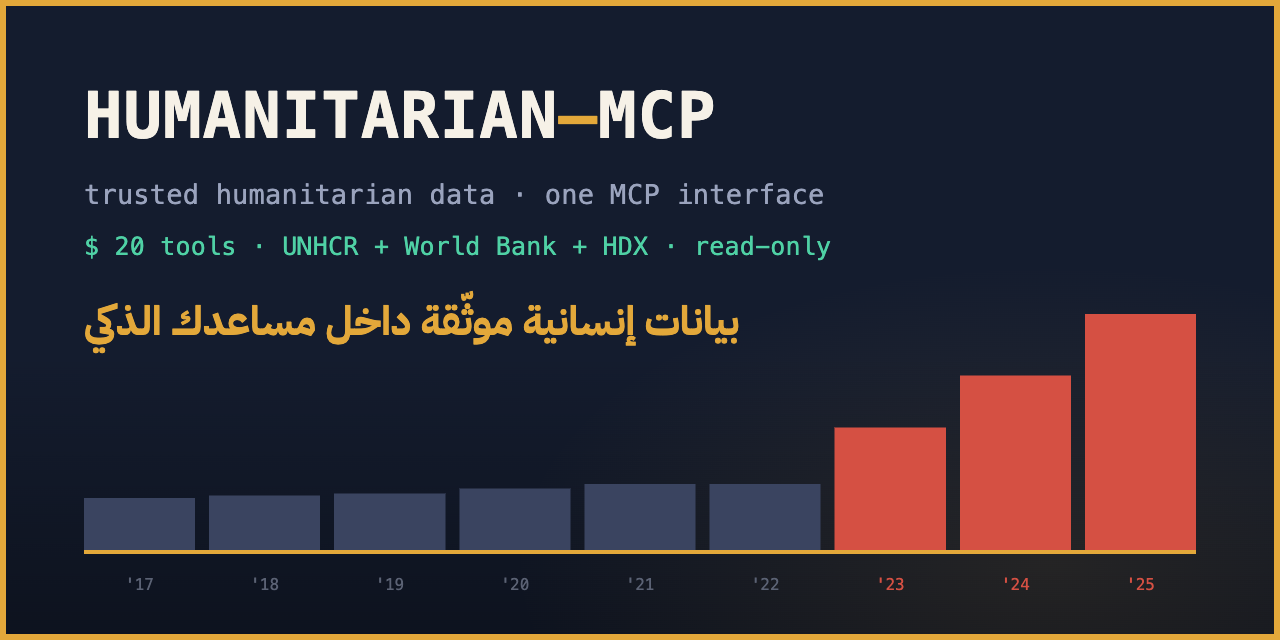
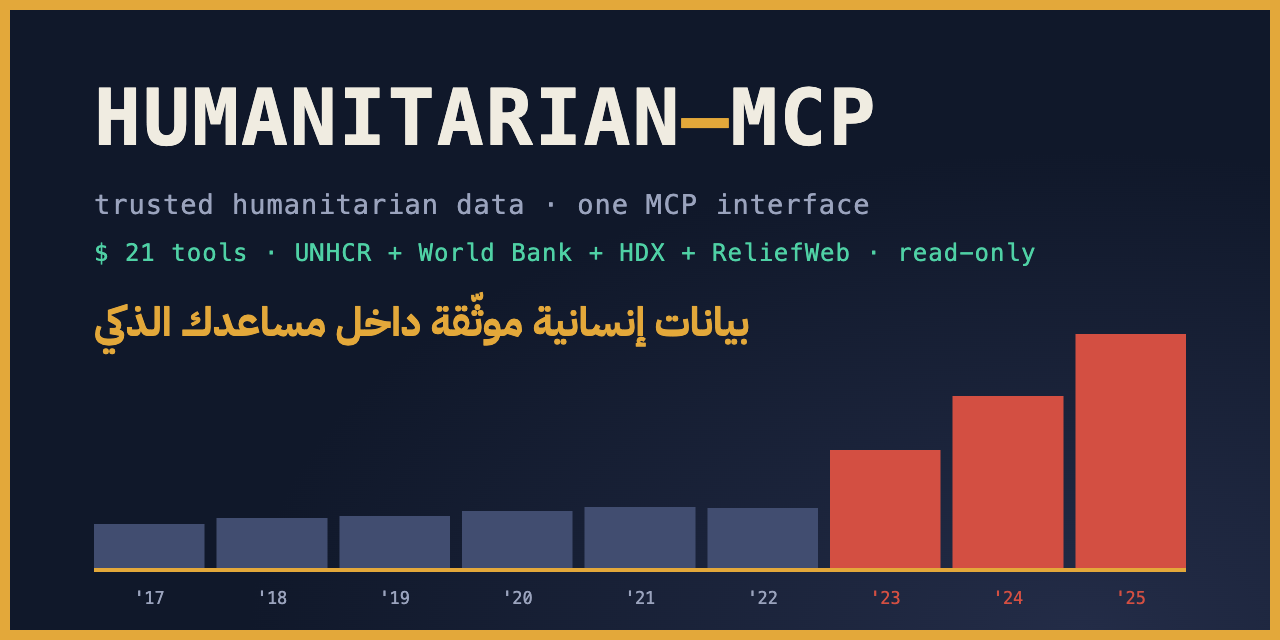
docs: animated README — live terminal demo, data-flow diagram, stats strip; sync content to v0.6.0
- New animated SVG assets (brand palette, SMIL — render natively on GitHub):
  demo-terminal.svg (typed queries, per-capita bars, Arabic resolution,
  cited export), data-flow.svg (four sources -> normalize -> AI clients),
  stats-strip.svg (21 tools · 4 sources · 8 prompts · 153 tests · 75 yrs)
- Social preview regenerated: 21 tools, four sources incl. ReliefWeb
- Content sync with v0.6.0: 20->21 tools, 7->8 prompts, 125->153 tests,
  version strings 0.5.1->0.6.0 (install + citation), ReliefWeb added to
  the intro dataset list, v0.6.0 entry added to the roadmap
- Mermaid component diagram folded into a collapsible details block

diff --git a/README.md b/README.md
@@ -12,18 +12,19 @@
 [![MCP](https://img.shields.io/badge/protocol-Model%20Context%20Protocol-7c3aed)](https://modelcontextprotocol.io)
 [![License: MIT](https://img.shields.io/badge/License-MIT-16a34a.svg)](LICENSE)
 
-```text
-"How many refugees does Jordan host right now?"
-"Top refugee-hosting countries per capita — not absolute numbers."
-"Relate Sudan's displacement to conflict fatalities since 2018."
-"Export that as citation-ready CSV with a codebook."          ← also works in Arabic: «قارن بين مصر والأردن»
-```
+<p align="center">
+  <img src="assets/demo-terminal.svg" width="900" alt="Animated demo — “Top refugee-hosting countries per capita?” returns Lebanon 130.7, Chad 63.0, Moldova 56.6, Jordan 55.7 per 1,000 residents with sources; «قارن بين اللاجئين في مصر والأردن» resolves Arabic country names; exports come back citation-ready with a manifest">
+</p>
+
+<p align="center">
+  <img src="assets/stats-strip.svg" width="900" alt="21 tools · 4 data sources · 8 prompts · 153 tests · 75 years of data">
+</p>
 
 ---
 
 ## What is Humanitarian MCP?
 
-Humanitarian MCP is an open-source server that gives AI assistants and analysis scripts **reliable, normalized, read-only access** to trusted humanitarian datasets: 75 years of UNHCR displacement statistics, World Bank context indicators, and HDX crisis data (conflict events, food security, humanitarian funding, internal displacement).
+Humanitarian MCP is an open-source server that gives AI assistants and analysis scripts **reliable, normalized, read-only access** to trusted humanitarian datasets: 75 years of UNHCR displacement statistics, World Bank context indicators, HDX crisis data (conflict events, food security, humanitarian funding, internal displacement), and ReliefWeb situation reports.
 
 **MCP in one paragraph:** the [Model Context Protocol](https://modelcontextprotocol.io) is an open standard — think "USB for AI tools" — that lets any AI application (Claude Desktop, Claude Code, Cursor, VS Code, Windsurf, custom agents) plug into external systems through one protocol. A server like this one exposes _tools_ the model can call, _resources_ it can read, and _prompts_ it can reuse. Connect it once, and every question your assistant answers about displacement is grounded in the real numbers instead of its training data. New to MCP? Read [docs/how-mcp-works.md](docs/how-mcp-works.md).
 
@@ -47,6 +48,12 @@ Without a trusted middleware, an LLM pointed at raw humanitarian APIs re-discove
 
 ## Architecture
 
+<p align="center">
+  <img src="assets/data-flow.svg" width="900" alt="Animated data flow — UNHCR, World Bank, HDX and ReliefWeb feed Humanitarian MCP, which normalizes everything to ISO3 with one schema and a citation on every payload, then serves AI clients (Claude, Cursor, VS Code, custom agents) over stdio or HTTP, strictly read-only">
+</p>
+
+<details><summary><strong>Detailed component diagram</strong></summary>
+
 ```mermaid
 flowchart TD
     U["You"] --> C["Claude Desktop · Claude Code · Cursor · VS Code · Windsurf<br/>or your own MCP agent"]
@@ -62,6 +69,8 @@ flowchart TD
     H --> A3[("hapi.humdata.org")]
     H --> A4[("api.reliefweb.int")]
 ```
+
+</details>
 
 Three invariants hold everywhere: **(1)** nothing provider-specific leaks outside `src/providers/<id>/`; **(2)** every tool is read-only and annotated as such; **(3)** errors reach the model as actionable text, never stack traces. Deep dive: [docs/architecture.md](docs/architecture.md).
 
@@ -116,9 +125,9 @@ No API key is required today. The service is operated on a best-effort basis by 
 
 **Data access**
 
-- 20 semantic, read-only tools — [full reference](docs/tools.md): country profiles, comparisons, yearly series, demographics, asylum applications/decisions with recognition rates, conflict events, food security (IPC), humanitarian funding, rankings, trend analysis with anomaly detection, (loudly caveated) naive forecasts
+- 21 semantic, read-only tools — [full reference](docs/tools.md): country profiles, comparisons, yearly series, demographics, asylum applications/decisions with recognition rates, conflict events, food security (IPC), humanitarian funding, situation reports, rankings, trend analysis with anomaly detection, (loudly caveated) naive forecasts
 - 11+ MCP resources (`country://EGY`, `report://SDN`, `chart://UGA`, `metadata://providers`…) with URI autocompletion
-- 7 built-in prompts (situation summary, donor briefing, anomaly hunt…)
+- 8 built-in prompts (situation summary, donor briefing, crisis overview, anomaly hunt…)
 
 **Country intelligence**
 
@@ -186,7 +195,7 @@ Requires **Node.js ≥ 20** for source installs (SQLite cache uses built-in `nod
 ### From npm — no clone needed
 
 ```bash
-npx humanitarian-mcp --version   # → humanitarian-mcp 0.5.1
+npx humanitarian-mcp --version   # → humanitarian-mcp 0.6.0
 ```
 
 Register it with Claude Code in one line:
@@ -206,7 +215,7 @@ git clone https://github.com/ahmedvnabil/humanitarian-mcp
 cd humanitarian-mcp
 npm install
 npm run build
-node dist/index.js --version   # → humanitarian-mcp 0.5.1
+node dist/index.js --version   # → humanitarian-mcp 0.6.0
 ```
 
 ### Docker
@@ -332,7 +341,7 @@ used to exhaust the upstream quotas all providers share.
 | [`src/`](src/)                                              | The server. `providers/` (one directory per data source — the only place provider quirks may exist), `tools/`, `resources/`, `prompts/`, `shared/` (HTTP, cache, rate limiting, stats, country matching), `viz/`, `http/` (Streamable HTTP + dashboard)                                                                                                            |
 | [`docs/`](docs/)                                            | [tools.md](docs/tools.md) (tool reference) · [architecture.md](docs/architecture.md) · [for-researchers.md](docs/for-researchers.md) · [how-mcp-works.md](docs/how-mcp-works.md) (MCP primer) · [adding-providers.md](docs/adding-providers.md) · [development.md](docs/development.md) · `index.html` (Arabic landing page, served at humanitarian-mcp.zad.tools) |
 | [`examples/`](examples/)                                    | Client configs, worked conversations with tool traces, HTTP client recipes, runnable [Python/R notebooks](examples/notebooks/)                                                                                                                                                                                                                                     |
-| [`tests/`](tests/)                                          | 125 tests: MCP compliance suite (official SDK client ↔ real server), fixture-based provider suites (no network), unit tests                                                                                                                                                                                                                                        |
+| [`tests/`](tests/)                                          | 153 tests: MCP compliance suite (official SDK client ↔ real server), fixture-based provider suites (no network), unit tests                                                                                                                                                                                                                                        |
 | [`paper/`](paper/)                                          | JOSS paper draft (`paper.md` + `paper.bib`)                                                                                                                                                                                                                                                                                                                        |
 | [`marketing/`](marketing/)                                  | Launch kit: platform-native announcement drafts                                                                                                                                                                                                                                                                                                                    |
 | [`Dockerfile`](Dockerfile) / [`compose.yaml`](compose.yaml) | Organizational self-hosting (image published to GHCR on every release)                                                                                                                                                                                                                                                                                             |
@@ -360,6 +369,7 @@ Releases: bump the version, tag `v*`, push — CI publishes the GitHub release w
 - v0.4.0 — **HDX/HAPI provider** (conflict, food security, funding, IDPs) + 3 crisis tools + **Docker/GHCR**
 - v0.5.0 — codebooks, Python/R notebooks, JOSS paper draft
 - v0.5.1 — HDX fixes from the first live verification round (per-theme admin levels, server-side year windows, pagination)
+- v0.6.0 — **ReliefWeb provider** (situation reports + latest report links), `situation_reports` tool, `crisis_overview` prompt, hardened public HTTP mode (per-IP rate limiting, `GET /health`), bilingual landing page
 - **Published to npm** — `npx humanitarian-mcp` is live
 
 **🚧 In progress**
@@ -395,7 +405,7 @@ No. It is an independent open-source project. All data is © its original produc
 
 <details><summary><strong>Why not just let the AI call the UN APIs directly?</strong></summary>
 
-Because the failure mode is silent wrong answers: UNHCR's `ARE` is Egypt, but ISO's `ARE` is the UAE; empty results look like "no data"; `"-"` cells break math. This server encodes those traps once, with 125 tests. See [Why this project exists](#why-this-project-exists).
+Because the failure mode is silent wrong answers: UNHCR's `ARE` is Egypt, but ISO's `ARE` is the UAE; empty results look like "no data"; `"-"` cells break math. This server encodes those traps once, with 153 tests. See [Why this project exists](#why-this-project-exists).
 </details>
 
 <details><summary><strong>Is the data real-time?</strong></summary>
@@ -508,15 +518,15 @@ Software (also available via GitHub's **"Cite this repository"** button — [CIT
   author  = {Nabil, Ahmed},
   title   = {humanitarian-mcp: a Model Context Protocol server for humanitarian open data},
   year    = {2026},
-  version = {0.5.1},
+  version = {0.6.0},
   url     = {https://github.com/ahmedvnabil/humanitarian-mcp},
   license = {MIT}
 }
 ```
 
-**APA** — Nabil, A. (2026). _humanitarian-mcp: A Model Context Protocol server for humanitarian open data_ (Version 0.5.1) [Computer software]. https://github.com/ahmedvnabil/humanitarian-mcp
+**APA** — Nabil, A. (2026). _humanitarian-mcp: A Model Context Protocol server for humanitarian open data_ (Version 0.6.0) [Computer software]. https://github.com/ahmedvnabil/humanitarian-mcp
 
-**Chicago** — Nabil, Ahmed. _humanitarian-mcp: A Model Context Protocol Server for Humanitarian Open Data_. V. 0.5.1. Computer software, 2026. https://github.com/ahmedvnabil/humanitarian-mcp.
+**Chicago** — Nabil, Ahmed. _humanitarian-mcp: A Model Context Protocol Server for Humanitarian Open Data_. V. 0.6.0. Computer software, 2026. https://github.com/ahmedvnabil/humanitarian-mcp.
 
 Cite the **data** as its producers: UNHCR Refugee Data Finder; World Bank World Development Indicators (CC BY 4.0); ACLED / IPC / OCHA FTS / IOM DTM via HDX HAPI — every export's manifest carries the exact citation string for its dataset. Method notes: [docs/for-researchers.md](docs/for-researchers.md).
 